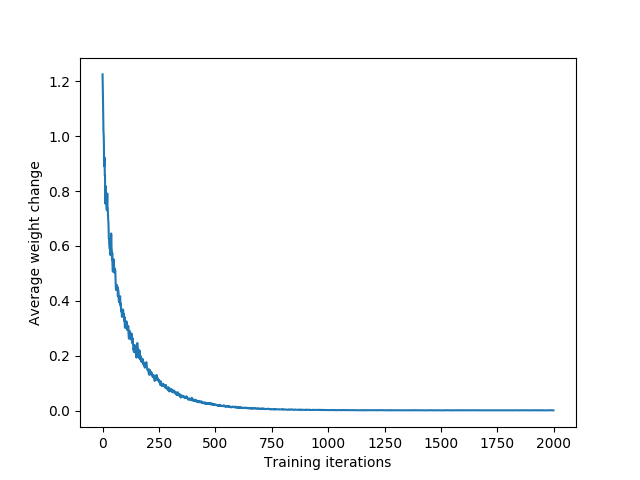
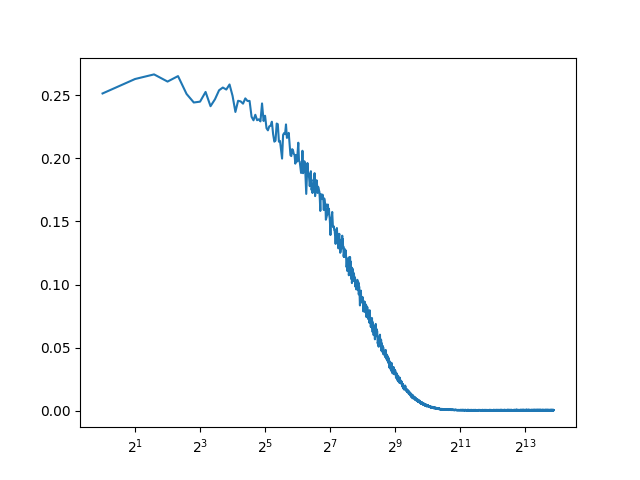
More of write up

diff --git a/writeup/report.tex b/writeup/report.tex
@@ -1,7 +1,9 @@
+% TODO reproducibility (sort out pickle), comments, PCA
+
 % !TEX TS-program = xelatex
 % !TEX encoding = UTF-8
 
-\documentclass[a4paper, 11pt, twocolumn, draft]{article} % use larger type; default would be 10pt
+\documentclass[a4paper, 11pt, twocolumn, final]{article} % use larger type; default would be 10pt
 
 \usepackage{default}
 
@@ -23,14 +25,16 @@
 \begin{abstract}
 
 This report details my study and application Principal Component Analysis and
-Competitive Learning to the MNIST data set of handwritten digits.
+Competitive Learning to the MNIST dataset of handwritten digits \cite{mnist}.
+We\footnote{In reality, `we' is just me, but using it makes things a bit easier
+to read.} used a Python-based approach with NumPy \cite{numpy} as a backend, and achieve an
+error rate of 32\%.
+
+In the report, we present a brief introduction to PCA and analyse the first five
+principal components of the data, and then detail the neural network set-up and
+algorithm used to build a classifier.
 
 \end{abstract}
-
-\tableofcontents
-
-\section{Introduction}
-% TODO reference MNIST
 
 \section{PCA} A full introduction to PCA in any mathematical depth would be
 outside the scope of this report, and can be found in any introductory machine
@@ -47,12 +51,12 @@ principal component axes, for some $k < d$.  Through some mathematical
 manipulation, it can be shown that the unit vectors of each principal component
 axis are the eigenvectors of the covariance matrix of the data.
 
-Using the Python library \texttt{numpy} to calculate a covariance matrix and
-perform fast matrix multiplication, we perform PCA on the MNIST dataset and take
-the first 5 principal components. Then we choose 3 of these 5 components and
-plot them to a 3-D graph.\footnote{This answers question 1 of part 1.  For
-details of the algorithm and code snippets please see \autoref{sec:code}.}
-The results of this can be seen in \autoref{fig:pca_graphs}.
+Using the Python library NumPy to calculate a covariance matrix and perform fast
+matrix multiplication, we perform PCA on the MNIST dataset and take the first 5
+principal components. Then we choose 3 of these 5 components and plot them to a
+3-D graph.\footnote{This answers question 1 of part 1.  For details of the
+algorithm and code snippets please see \autoref{sec:code}.} The results of this
+can be seen in \autoref{fig:pca_graphs}.
 
 \begin{figure}
   \includegraphics[width=0.23\textwidth]{pca/012.png}
@@ -86,7 +90,7 @@ here.\footnote{This answers question 7 of part 1.}
 
 \section{Competitive Learning} \subsection{Model and algorithm} The model used
 for performing classification on the dataset was a single-layer artificial
-neural network using a competitive learning mode, as outlined in (REFERENCE).
+neural network using a competitive learning mode, as outlined in \cite{hertz91}.
 Briefly, for a normalised $n$-dimensional input vector and $m$ output units, we
 randomly initialise $m{\times}n$ matrix $W$ of initial artificial synapse
 weights.  Then, taking each input vector $\bm{\xi}^\mu$ in turn, we compute
@@ -100,7 +104,7 @@ For the learning step, the weights of the synapses connected to the winning
 postsynaptic neuron are adjusted in proportion to the difference between their
 previous weight and the input vector.  The constant of this proportion, $\eta$,
 is termed the \textit{learning rate}, and is one of the parameters used in
-tuning.  In fact, as per the recommendation in (REFERENCE), we decided to use a
+tuning.  In fact, as per the recommendation in \cite[p223]{hertz91}, we decided to use a
 decaying learning rate of $\eta(t) = \eta_0t^{-\alpha}$ for some $0 \le \alpha
 \le 1$, where $\alpha$ is known as the rate of decay of the learning rate.
 
@@ -111,17 +115,19 @@ used for evaluation, and indeed more training data can be presented at any
 stage.\footnote{This answers question 1 of part 2.  For further detail and code
 snippets please see \autoref{sec:code}.}
 
-It is necessary to \textit{l2}-normalise the input vectors before training in
-order to properly compute the distance between the weight vector for a
-postsynaptic neuron and the input.  (CHECK THIS) something about
-$\bm{\xi}\cdot\bm{w} = \bm{\xi} - \bm{w}$ if $\bm{\xi}$ is
-normalised.\footnote{This answers question 2 of part 2.}
+It is necessary to $l_2$-normalise the input vectors before training in
+order to correctly adjust the synaptic weights during learning.  If the input is
+not normalised then the weights may grow infinitely --- so we must either apply
+a normalising factor to the new weights after each training step, or simply
+normalise our inputs before training \cite[p219]{hertz91}.
 
 \subsection{Optimisation}
 
 For the purposes of tuning, we use four parameters: the number of output units,
 the learning rate, the weight of the added noise, and the rate of decay of the
-learning rate.
+learning rate.  From experimentation it seemed that the noise weighting did not
+contribute significantly to any variations in accuracy of the network, so we
+have held it constant at 0.005 for all presented evaluations.
 
 For evaluating a trained network, we use the following procedure, using labelled
 data:  Define $m$ artificial classes, one for each output unit, and classify
@@ -133,44 +139,117 @@ inputs based on this mapping, and return this as a proportion of the total
 number of inputs.  Using this method, a randomly initialised untrained network
 will have an accuracy of \char"7E{}25\%.
 
-Here we present three 3-D graphs, showing the accuracy as a function of two of
-the parameters, with an average over the third.  These were obtained using the
-unreduced $28 \times 28$ data with 15 output neurons and 20 000 training
-iterations.
+In \autoref{fig:optimisation_graphs} are presented three 3-D graphs, showing the
+accuracy as a function of two of the parameters under experiment, with an
+average over the third.  These were obtained using the unreduced $28 \times 28$
+data with 15 000 training iterations.  The values used for the learning rate,
+learning rate decay, and number of outputs are $\eta = 1000^{-\frac{i}{10}}$,
+$\alpha = 1000^{-\frac{j}{10}}$ and $m = k + 10$ respectively, where $i, j, k
+\in \{0, \ldots, 10\}$.  These formulae for $\eta$ and $\alpha$ allow us to use
+a high resolution near 0, where there is more variation and a lower resolution
+further away.
+
+What is clear from the graphs is that there is a maximum accuracy for some small
+positive $\eta$ and $\alpha$.  In actual fact this maximum occurs at $(\eta =
+0.032, \alpha = 0.002)$, which we later use in \autoref{sec:weight_change}.
+Although there must exist a maximum on the $m$-axis, since for sufficiently
+large $m$, our evaluation function will break down, finding it was beyond our
+computational means.
+
+\begin{figure}
+  \includegraphics[width=0.46\textwidth]{optimisation/01.png}
+  \includegraphics[width=0.46\textwidth]{optimisation/02.png}
+  \includegraphics[width=0.46\textwidth]{optimisation/12.png}
+  \caption{Performance curves for 3 parameters.}
+  \label{fig:optimisation_graphs}
+\end{figure}
 
 \subsection{Dead units} \label{sec:deadunits} In the context of competitive
 learning, a dead unit is defined as an output unit which enters a negative
 equilibrium of never being activated for any input, and thus never learning. One
 method of dealing with these units is to define some heuristic `dead unit
-detection' function, and simply delete them.  In (REFERENCE), however, some
-subtler approaches are outlined, for example using `leaky learning', in which
-(BLAH BLAH BLAH), or smearing the output stimuli with noise, in order to give a
-certain non-zero probability of firing to every output unit regardless of
-stimulation.  The noise-smearing approach is what was implemented, and thus a
-heuristic function for identifying dead units was never needed in this
-implementation.\footnote{This answers question 4 of part 2.}
+detection' function, and simply delete them.  In \cite[p221]{hertz91}, however,
+some subtler approaches are outlined, for example using `leaky learning', in
+which we update the weights of the losing units as well as the winning unit, but
+with a small $\eta$, or smearing the output stimuli with noise, in order to give
+a certain non-zero probability of firing to every output unit regardless of
+stimulation.  The noise-smearing approach is what we implemented, and thus a
+heuristic function for identifying dead units was never needed in our
+case.\footnote{This answers question 4 of part 2.}
 
-\subsection{Weight change} A goo dmeasure of when a network has learned
-sufficiently from the available data is to compute the average synapse weight
-change over each training iteration.  When the training reaches a constant,
-low-level rate of change, we can conclude that the network is no longer learning
-anything useful.  \autoref{fig:weight_change} shows these weight changes for a
-network with a learning rate of 0.07 and a learning rate decay of 0.07.  From
-this we can see that after no more than \char"7E{}1000 iterations, the learning
-has stabilised and the network is about as good as it is ever going to
-be.\footnote{This answers question 5 of part 2.}
+\subsection{Weight change} \label{sec:weight_change} A good measure of when a
+network has learned sufficiently from the available data is to compute the
+average synapse weight change over each training iteration.  When the training
+reaches a constant, low-level rate of change, we can conclude that the network
+is no longer learning anything useful.  \autoref{fig:weight_change} shows these
+weight changes for a network with a learning rate of 0.032 and a learning rate
+decay of 0.002 (the best result from the evaluation calculations above).  From
+this we can see that after no more than \char"7E$2^{11}$ iterations, the
+learning has stabilised and the network is about as good as it is ever going to
+be with these parameters.\footnote{This answers question 5 of part 2.}
 
 \begin{figure}
   \includegraphics[width=0.46\textwidth]{dw_average.png}
-  \caption{Moving average of $\Delta{}W$ by iteration count.
-           $\eta = 0.07$, $\alpha = 0.07$}
+  \caption{Moving average of $|\Delta{}\bm{w}_i|$ by iteration count.
+           $\eta = 0.032$, $\alpha = 0.002$, $m = 15$, log-$x$ axis.}
   \label{fig:weight_change}
 \end{figure}
 
-\appendix \section{Code snippets} \label{sec:code} Throughout the code, we try
-to use a Pythonic style where possible, using \texttt{numpy} for fast work.
-Variable names are descriptive and it should be clear what the algorithm is
-doing without too many comments.
+\subsection{Final prototypes} On a network trained with $\eta = 0.032$, $\alpha =
+0.002$, $m = 15$ for $2^{16}$ iterations, the final prototypes for each of the
+$m$ output neurons are as displayed in \autoref{fig:weights}.  These are the
+synapse weights for each postsynaptic neuron displayed in a $28\times28$ grid.
+Clearly, it can be seen that each unit is specialised to recognise certain
+common input patterns.\footnote{This answers question 6 of part 2.}
+
+Additionally shown in the same figure is the $m\times{}m$ covariance matrix of
+the prototypes. The bright diagonal line indicates the autocorrelation of each
+prototype to itself, which is obviously high, and brighter squares outside the
+diagonal indicate when two prototypes are similar.\footnote{This answers
+question 7 of part 2.}
+
+\begin{figure}
+  \includegraphics[width=0.46\textwidth]{weights.png}
+  \includegraphics[width=0.46\textwidth]{unit_covariance.png}
+  \caption{Final units and their covariance after $2^{16}$ iterations.
+           $\eta = 0.032$, $\alpha = 0.002$, $m = 15$.}
+  \label{fig:weights}
+\end{figure}
+
+\section{Reproducibility}
+???
+
+\begin{thebibliography}{9}
+\bibitem{mnist}
+  Y. Lecun and C. Cortes,
+  ``The MNIST database of handwritten digits.''
+  [Online].
+  Available: \url{http://yann.lecun.com/exdb/mnist/}
+
+\bibitem{numpy}
+  Stéfan van der Walt, S. Chris Colbert and Gaël Varoquaux.
+  ``The NumPy Array: A Structure for Efficient Numerical Computation'',
+  Computing in Science \& Engineering, 13, 22--30 (2011),
+  DOI:10.1109/MCSE.2011.37
+  [Online].
+  Available: \url{http://scitation.aip.org/content/aip/journal/cise/13/2/10.1109/MCSE.2011.37}
+
+\bibitem{hertz91}
+  J. Hertz \textit{et al.},
+  ``Unsupervised Competitive Learning''
+  in \textit{Introduction to the Theory of Neural Computation},
+  Boulder CO: Westview Press,
+  1991
+
+\end{thebibliography}
+
+\appendix \section{Code snippets} \label{sec:code} This appendix contains
+listings of core parts of the codebase.  Auxiliary code, such as graph
+generation, data classes, utility functions, etc. are omitted.
+
+Throughout the code, we try to use a Pythonic style where possible, using NumPy
+for fast work. Variable names are descriptive and it should be clear what the
+algorithm is doing without too many comments.
 
 \subsection{PCA} This code was re-used from a previous assignment in COM3004
 (Data-Driven Computing).
